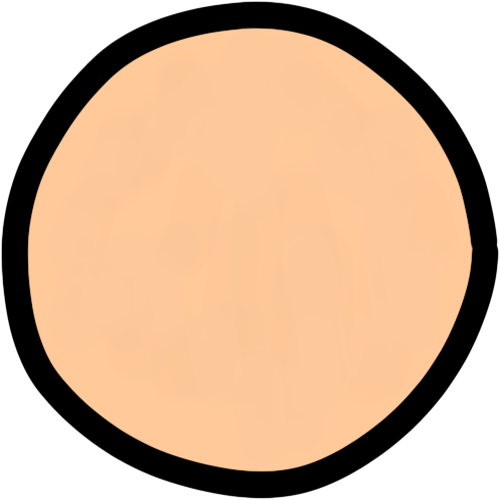
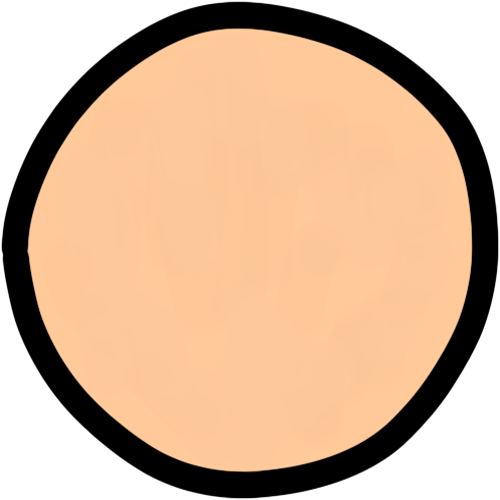
Added animations to the player.

diff --git a/main.py b/main.py
@@ -234,7 +234,8 @@ class Sprite:
     class Player:
         class Body:
             size = (80, 80)
-            frames = load_images(["images/player/body/f0.png"], size)
+            frame_interval = 150 # ms
+            frames = load_images([f"images/player/body/f{x}.png" for x in range(4)], size)
         class Hand:
             size = (30, 30)
             image = load_image("images/player/hands/f0.png", size)
@@ -254,6 +255,7 @@ class Sprite:
             class Tree:
                 size = (300, 500)
                 frames = load_images(["images/scenery/foilage/tree/f0.png"], size)
+
 
 class Scene:
     buttons = []
@@ -332,6 +334,8 @@ class Player:
     base_speed = 6 * settings["SpeedMultiplier"]
     hands = {"left":Hand(-0.5), "right":Hand(0.5)}
     IMAGE_FRAMES = Sprite.Player.Body
+    current_frame = 0
+    last_frame_time = pygame.time.get_ticks()
 
     @classmethod
     def update(cls, mouse_pos, mouse_down, keys_pressed: pygame.key.ScancodeWrapper):
@@ -370,7 +374,12 @@ class Player:
         """Displays the player and hands on the screen."""
         cls.hands["left"].display()
         cls.hands["right"].display()
-        render.blit(Sprite.Player.Body.frames[0], cls.render_pos)
+
+        current_time = pygame.time.get_ticks()
+        if current_time - cls.last_frame_time >= cls.IMAGE_FRAMES.frame_interval:
+            cls.last_frame_time = current_time
+            cls.current_frame = (cls.current_frame + 1) % len(cls.IMAGE_FRAMES.frames)
+        render.blit(cls.IMAGE_FRAMES.frames[cls.current_frame], cls.render_pos)
 
 
 class Object:
